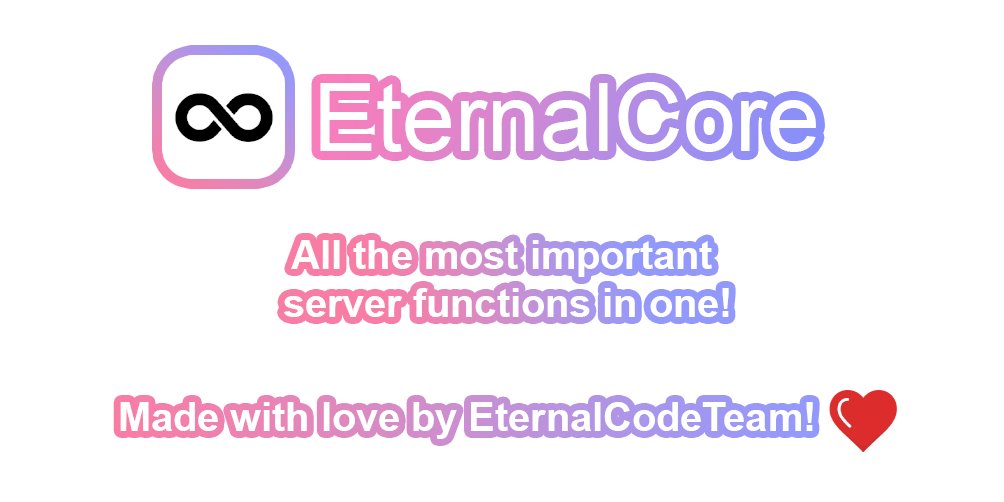
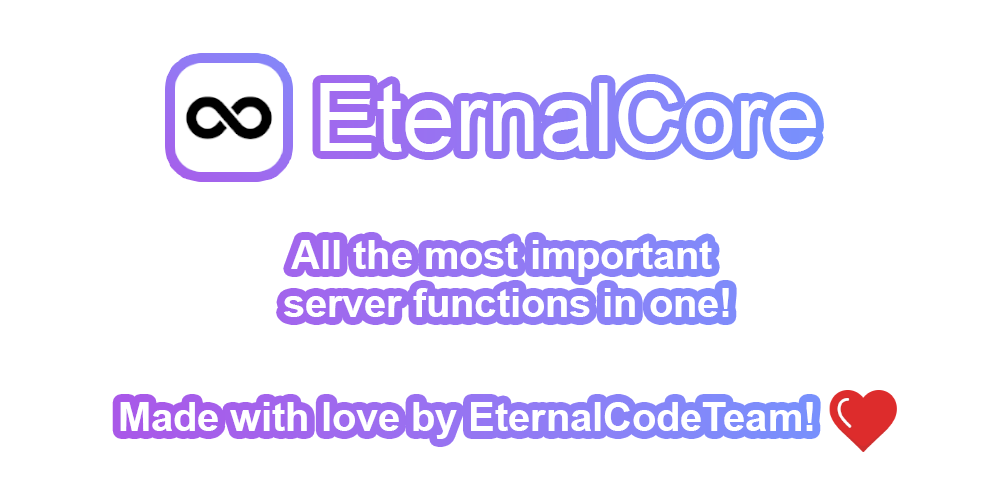
GH-325 Beautify README.md (#325)
* Remove unused import in Delay.java

* Optimize imports

* Add new, modern badges.

* Update README.md

* Update README.md

* Update readme-banner.png

* Squashed commit of the following:

commit 4f412aac59627157c3b1122a4fb878ffdbae830b
Author: renovate[bot] <29139614+renovate[bot]@users.noreply.github.com>
Date:   Sun Jan 29 01:21:44 2023 +0100

    GH-330 Update all dependencies (#330)

commit 9eb6109dc4a3e1bafa7e764961524b9cf141d95a
Author: Martin Sulikowski <vLuckyyy.biznes@gmail.com>
Date:   Sun Jan 29 00:01:05 2023 +0100

    GH-328 Create group for merge all bumps into one PR

commit ec925eed656450f1ae461d7906044e530a51626a
Author: Martin Sulikowski <vLuckyyy.biznes@gmail.com>
Date:   Sat Jan 28 21:34:06 2023 +0100

    GH-324 Add visibility private for config manager (#326)

* Bump expressible to 1.3.0

* Update README.md

---------

diff --git a/core/src/test/java/com/eternalcode/core/util/RandomUtilTest.java b/core/src/test/java/com/eternalcode/core/util/RandomUtilTest.java
@@ -1,11 +1,11 @@
 package com.eternalcode.core.util;
 
+import org.junit.jupiter.api.Test;
+import panda.std.Option;
+
 import java.util.Arrays;
 import java.util.Collection;
 import java.util.List;
-
-import org.junit.jupiter.api.Test;
-import panda.std.Option;
 
 import static org.junit.jupiter.api.Assertions.assertTrue;
 
@@ -24,7 +24,7 @@ class RandomUtilTest {
     void testRandomElementEmptyCollection() {
         List<String> emptyList = List.of();
         Option<String> randomElement = RandomUtil.randomElement(emptyList);
-        
+
         assertTrue(randomElement.isEmpty());
     }
 }

diff --git a/core/src/test/java/com/eternalcode/core/user/UserManagerTest.java b/core/src/test/java/com/eternalcode/core/user/UserManagerTest.java
@@ -1,10 +1,11 @@
 package com.eternalcode.core.user;
 
-import static org.junit.jupiter.api.Assertions.assertEquals;
-import static org.junit.jupiter.api.Assertions.assertTrue;
+import org.junit.jupiter.api.Test;
 
 import java.util.UUID;
-import org.junit.jupiter.api.Test;
+
+import static org.junit.jupiter.api.Assertions.assertEquals;
+import static org.junit.jupiter.api.Assertions.assertTrue;
 
 class UserManagerTest {
 

diff --git a/core/src/main/java/com/eternalcode/core/bridge/BridgeManager.java b/core/src/main/java/com/eternalcode/core/bridge/BridgeManager.java
@@ -4,6 +4,7 @@ import com.eternalcode.core.bridge.placeholderapi.PlaceholderApiReplacer;
 import com.eternalcode.core.placeholder.PlaceholderRegistry;
 import org.bukkit.Server;
 import org.bukkit.plugin.PluginManager;
+
 import java.util.logging.Logger;
 
 public class BridgeManager {

diff --git a/core/src/main/java/com/eternalcode/core/command/argument/DurationArgument.java b/core/src/main/java/com/eternalcode/core/command/argument/DurationArgument.java
@@ -10,6 +10,7 @@ import dev.rollczi.litecommands.command.LiteInvocation;
 import dev.rollczi.litecommands.suggestion.Suggestion;
 import panda.std.Option;
 import panda.std.Result;
+
 import java.time.Duration;
 import java.time.format.DateTimeParseException;
 import java.util.Arrays;

diff --git a/core/src/main/java/com/eternalcode/core/delay/Delay.java b/core/src/main/java/com/eternalcode/core/delay/Delay.java
@@ -1,6 +1,5 @@
 package com.eternalcode.core.delay;
 
-import com.eternalcode.core.configuration.implementation.PluginConfiguration;
 import com.google.common.cache.Cache;
 import com.google.common.cache.CacheBuilder;
 

diff --git a/core/src/main/java/com/eternalcode/core/util/DurationUtil.java b/core/src/main/java/com/eternalcode/core/util/DurationUtil.java
@@ -1,7 +1,6 @@
 package com.eternalcode.core.util;
 
 import java.time.Duration;
-import java.util.concurrent.TimeUnit;
 
 public final class DurationUtil {
 

diff --git a/README.md b/README.md
@@ -2,13 +2,15 @@
 
 ![readme-banner.png](assets/readme-banner.png)
 
-[![Discord](https://img.shields.io/discord/889460117953720351?color=%237289DA&logo=discord&logoColor=white&style=for-the-badge)](https://discord.gg/FQ7jmGBd6c)
-[![Website](https://img.shields.io/badge/-website-orange?style=for-the-badge&logo=internet-explorer&logoColor=white)](https://eternalcode.pl/)
+[![Supports Paper](https://raw.githubusercontent.com/intergrav/devins-badges/v3/assets/cozy/supported/paper_vector.svg)](https://papermc.io)
+[![Supports Spigot](https://raw.githubusercontent.com/intergrav/devins-badges/v3/assets/cozy/supported/spigot_vector.svg)](https://spigotmc.org)
 
-![Percentage of issues still open](https://img.shields.io/github/issues/EternalCodeTeam/EternalCore?style=for-the-badge)
-[![GitHub forks](https://img.shields.io/github/forks/EternalCodeTeam/EternalCore?style=for-the-badge)](https://github.com/EternalCodeTeam/EternalCore/network)
-[![GitHub stars](https://img.shields.io/github/stars/EternalCodeTeam/EternalCore?style=for-the-badge)](https://github.com/EternalCodeTeam/EternalCore/stargazers)
-[![GitHub license](https://img.shields.io/github/license/EternalCodeTeam/EternalCore?style=for-the-badge)](https://github.com/EternalCodeTeam/EternalCore/blob/master/LICENSE)
+[![Patreon](https://raw.githubusercontent.com/intergrav/devins-badges/v3/assets/cozy/donate/patreon-plural_vector.svg)](https://www.patreon.com/eternalcode)
+[![Website](https://raw.githubusercontent.com/intergrav/devins-badges/v3/assets/cozy/documentation/website_vector.svg)](https://eternalcode.pl/)
+[![Discord](https://raw.githubusercontent.com/intergrav/devins-badges/v3/assets/cozy/social/discord-plural_vector.svg)](https://discord.gg/FQ7jmGBd6c)
+
+[![Gradle](https://raw.githubusercontent.com/intergrav/devins-badges/v3/assets/cozy/built-with/gradle_vector.svg)](https://gradle.org/)
+[![Java](https://raw.githubusercontent.com/intergrav/devins-badges/v3/assets/cozy/built-with/java17_vector.svg)](https://www.java.com/)
 
 </div>
 
@@ -44,7 +46,8 @@ To build EternalCore do the following (Make sure you have JDK 17 or higher)
 
 # Contributing
 
-Create a public EternalCore fork, make changes and then create a Pull Request with your appropriate changes.
+Create a public fork of EternalCore, make changes and then create
+a [Pull Request](https://github.com/EternalCodeTeam/EternalCore/pulls) with your appropriate changes.
 See [CONTRIBUTING.md](https://github.com/EternalCodeTeam/EternalCore/blob/master/.github/CONTRIBUTING.md) to find out
 more.
 
@@ -67,20 +70,21 @@ more.
 # Other Dependencies usages
 
 - [LiteCommands (by Rollczi ❤)](https://github.com/Rollczi/LiteCommands)
-- [Lombok (Only for Configs)](https://projectlombok.org/)
+- [Lombok](https://projectlombok.org/)
 - [PaperLib](https://github.com/PaperMC/PaperLib)
-- [Spigot-API](https://www.spigotmc.org/wiki/spigot-gradle/)
+- [Spigot API](https://www.spigotmc.org/wiki/spigot-gradle/)
 - [Kyori Adventure](https://docs.adventure.kyori.net/)
-- [CDN](https://github.com/dzikoysk/cdn)
+- [CDN Configs](https://github.com/dzikoysk/cdn)
 - [Expressible](https://github.com/panda-lang/expressible)
 - [bStats](https://bstats.org/)
 - [HikariCP](https://github.com/brettwooldridge/HikariCP)
-- [Ormlite jdbc](https://github.com/j256/ormlite-jdbc)
-- [TriumphGui](https://github.com/TriumphTeam/triumph-gui)
+- [Ormlite JDBC](https://github.com/j256/ormlite-jdbc)
+- [TriumphGUI](https://github.com/TriumphTeam/triumph-gui)
 
 # Special thanks
 
 [<img src="https://user-images.githubusercontent.com/65517973/210912946-447a6b9a-2685-4796-9482-a44bffc727ce.png" alt="" width="150">](https://www.jetbrains.com)
 
 We thank JetBrains for providing [Open Source Licenses](https://www.jetbrains.com/opensource/) for high quality tools.
-We recommend using [Intellij IDEA](https://www.jetbrains.com/idea/) to work with our projects!
+We recommend using [Intellij IDEA](https://www.jetbrains.com/idea/) to work with our projects and accelerate your
+productivity!
